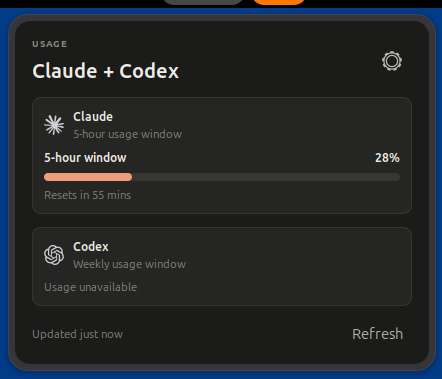
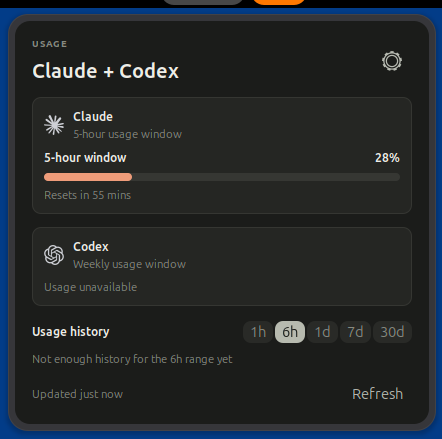
fix(history): keep the range selector when a range has no coverage
Selecting a range with no data used to drop the whole history section, hiding the
range selector too and trapping the user on that range. Now the section stays
whenever history has samples: it renders the chart when the range is covered and a
labelled empty state otherwise, so the range is never a dead end. Adds hasSamples
to the store and runtime, extends J-006 to prove the empty-state path and recovery,
and refreshes the three usage-popup captures.

diff --git a/extension/extension.js b/extension/extension.js
@@ -259,13 +259,12 @@ export default class ClaudexUsageExtension extends Extension {
     }
 
     _historySection() {
-        if (!this._preferences.localHistory || !this._history)
+        if (!this._preferences.localHistory || !this._history ||
+            !this._history.hasSamples())
             return null;
         const range = this._preferences.historyRange;
         const series = this._history.series(range.id).filter(item =>
             HISTORY_SERIES_META[`${item.providerId}:${item.windowId}`]);
-        if (series.length === 0)
-            return null;
         const key = item => `${item.providerId}:${item.windowId}`;
         const section = column('selected-history');
         const head = new St.BoxLayout({
@@ -284,6 +283,14 @@ export default class ClaudexUsageExtension extends Extension {
             onSelect: id => this._settings.set_enum('history-range', historyRangeIndex(id)),
         }));
         section.add_child(head);
+        if (series.length === 0) {
+            section.add_child(new St.Label({
+                name: 'history-empty',
+                text: `Not enough history for the ${range.label} range yet`,
+                style_class: 'claudex-provider-detail',
+            }));
+            return section;
+        }
         section.add_child(HistoryChart({
             id: 'history-chart',
             accessibleName: `Usage history for ${range.label}, ` +

diff --git a/tests/journeys/J-006-usage-history.journey.test.js b/tests/journeys/J-006-usage-history.journey.test.js
@@ -106,6 +106,19 @@ export async function run() {
         assert(findActor(indicator.menu.actor, 'history-chart'),
             'the chart stays after switching range');
 
+        // A range with no coverage keeps the selector and shows an empty state
+        // rather than vanishing, so the user can switch back.
+        findActor(indicator.menu.actor, 'range-30d').emit('clicked', 1);
+        await waitFor(() => findActor(indicator.menu.actor, 'history-empty'),
+            'an uncovered range shows the empty state');
+        assert(!findActor(indicator.menu.actor, 'history-chart'),
+            'no chart is drawn for an uncovered range');
+        assert(findActor(indicator.menu.actor, 'range-6h'),
+            'the range selector stays so the user is not trapped');
+        findActor(indicator.menu.actor, 'range-6h').emit('clicked', 1);
+        await waitFor(() => findActor(indicator.menu.actor, 'history-chart'),
+            'switching back to a covered range restores the chart');
+
         findActor(indicator.menu.actor, 'settings-button').emit('clicked', 1);
         await waitFor(() => findActor(indicator.menu.actor, 'toggle-showUsageHistory'),
             'settings view exposes the local-history toggle');

diff --git a/extension/history-store.js b/extension/history-store.js
@@ -22,6 +22,14 @@ export function emptyStore() {
     return frozenStore({});
 }
 
+export function hasSamples(store) {
+    for (const samples of Object.values(windowsOf(store))) {
+        if (Array.isArray(samples) && samples.length > 0)
+            return true;
+    }
+    return false;
+}
+
 function windowsOf(store) {
     return isRecord(store) && isRecord(store.windows) ? store.windows : {};
 }

diff --git a/tests/unit/history-store.test.js b/tests/unit/history-store.test.js
@@ -4,6 +4,7 @@ import test from 'node:test';
 import {
     deserializeStore,
     emptyStore,
+    hasSamples,
     HISTORY_RANGES,
     recordSample,
     RETENTION_MS,
@@ -94,6 +95,13 @@ test('seriesForRange omits windows without coverage at the range start', () => {
     const series = seriesForRange(covered, '6h', now);
     assert.equal(series.length, 1);
     assert.deepEqual([series[0].providerId, series[0].windowId], ['codex', 'weekly']);
+});
+
+test('hasSamples reports whether any window holds a sample', () => {
+    assert.equal(hasSamples(emptyStore()), false);
+    assert.equal(hasSamples(null), false);
+    assert.equal(hasSamples({windows: {'claude:short': []}}), false);
+    assert.equal(hasSamples(build([sample()])), true);
 });
 
 test('seriesForRange fails closed for unknown ranges, bad now, and empty stores', () => {

diff --git a/extension/history-runtime.js b/extension/history-runtime.js
@@ -4,6 +4,7 @@ import GLib from 'gi://GLib';
 import {
     deserializeStore,
     emptyStore,
+    hasSamples,
     recordSample,
     seriesForRange,
     serializeStore,
@@ -71,6 +72,10 @@ export class HistoryRuntime {
 
     series(rangeId) {
         return seriesForRange(this._store, rangeId, this._now());
+    }
+
+    hasSamples() {
+        return hasSamples(this._store);
     }
 
     _load() {

diff --git a/tests/unit/history-runtime.test.js b/tests/unit/history-runtime.test.js
@@ -65,7 +65,9 @@ try {
         assert(short && short.values.length === 30, 'series length');
         assert(short.values[0] === 5 && short.values.at(-1) === 50, 'carry-forward');
 
+        assert(instance.hasSamples(), 'hasSamples true after recording');
         const reloaded = runtime('persist');
+        assert(reloaded.hasSamples(), 'hasSamples true after reload');
         equal(ids(reloaded.series('1h')), ids(series), 'reloaded ids');
         equal(reloaded.series('1h'), series, 'reloaded series');
 
@@ -81,6 +83,7 @@ try {
         instance.record([{providerId: 'claude', windowId: 'short', percent: NaN},
             {providerId: '', windowId: 'short', percent: 5}, 42, null]);
         equal(instance.series('1h'), [], 'nothing recorded');
+        assert(!instance.hasSamples(), 'hasSamples false when nothing recorded');
         assert(!Gio.File.new_for_path(GLib.build_filenamev([root, 'malformed', 'history.json']))
             .query_exists(null), 'no file written for empty batches');
     });

diff --git a/docs/product/specs/2026-07-17-local-history.md b/docs/product/specs/2026-07-17-local-history.md
@@ -47,6 +47,8 @@ Acceptance:
 - Settings — the local-history toggle and range choice persist across sessions.
 - Absent-history state — with local history off or no samples yet, the popup shows
   current values with no chart.
+- Uncovered range — a selected range with no coverage keeps the range selector and shows
+  an empty state instead of hiding, so the range is never a dead end.
 
 ## Cross-Journey Acceptance
 